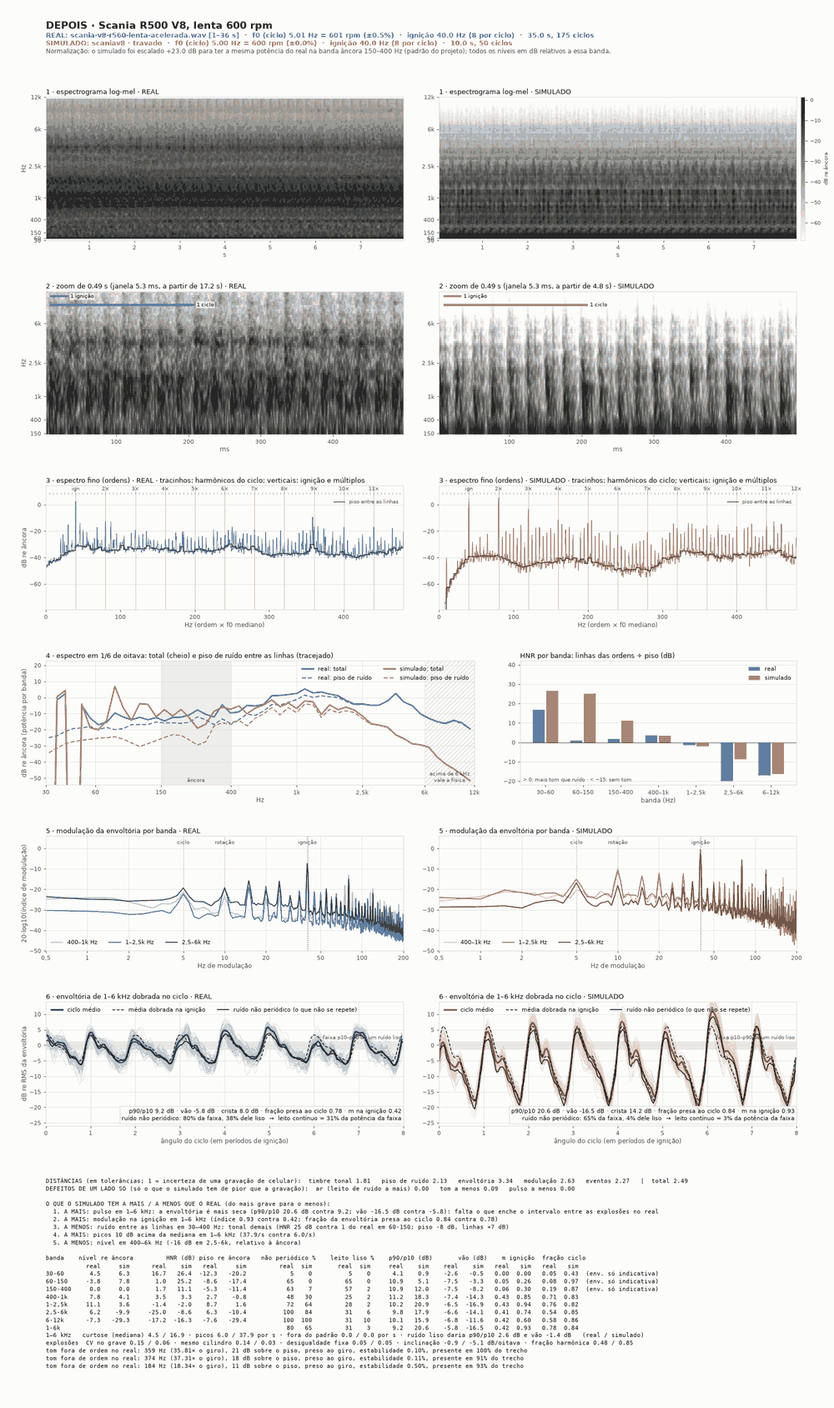
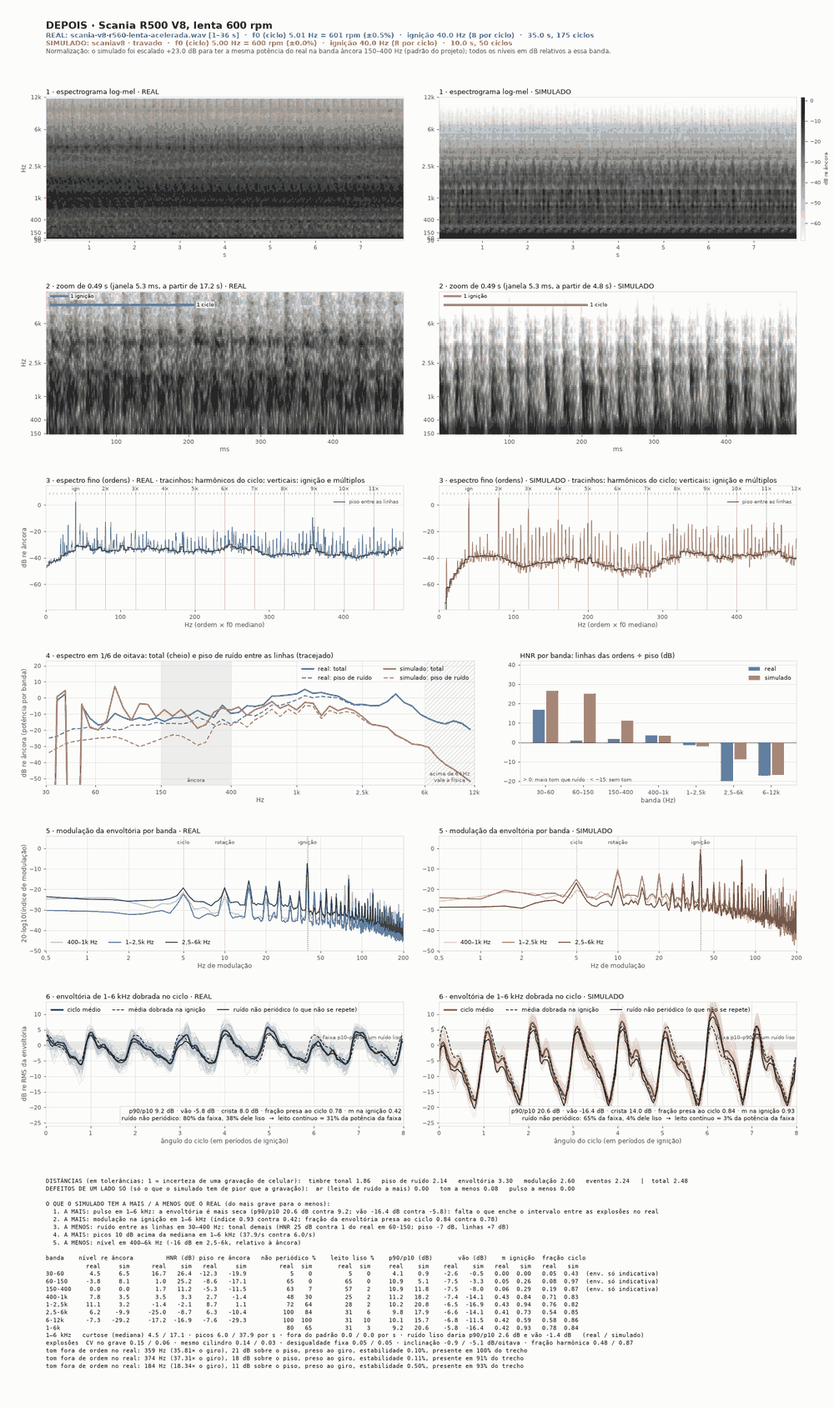
Diesel, 5ª passada (médios): documentação, painéis e a medida refeita com o câmbio novo
- TECNICO.md: subseção "Quinta passada (médios acelerando)": diagnóstico por fonte no
  microfone padrão, o corpo da batida, antes × depois × gravação nas três condições de
  aceleração (40% de pedal, pé no fundo no padrão e trocando cedo), o alto do giro,
  a tabela de volta atrás, o que ficou de fora e os portões
- REVISAO-DE-SOM.md: o que a passada ensinou, no caso do Diesel
- docs/ouvido/diesel/medios-*.png: seis painéis reduzidos
- tools/diesel-medios.json: casos `eco100` (caminhões trocando cedo, a rotação das
  gravações de carga); a gravação de bordo passa a casar com o ônibus trocando cedo

Changed region(s): [[0.248, 0.4929, 0.434, 0.5237], [0.806, 0.3697, 0.961, 0.4005], [0.527, 0.7393, 0.558, 0.7701]]

diff --git a/docs/TECNICO.md b/docs/TECNICO.md
@@ -1161,7 +1161,7 @@ O projeto está em [`DIESEL.md`](DIESEL.md); aqui fica o que foi feito, como e o
 
 ### Ferramentas e portões
 
-- `npm run teste:diesel` (`tools/diesel-valida.ts`): lenta, governadores, pressões (tabela 2.5), bandas por família (Apêndice A, tabela 4.4), fumaça, freio-motor, potência, veículo e NaN, em paralelo; sai ≠ 0 em falha nova; os desvios conhecidos (abaixo) aparecem como "desvio". Leva ~20 min (1190 s medidos em 18/11/2026; é de longe o teste mais demorado da suíte, e o grupo `nan` roda num processo só). `npm run troca:diesel` (`tools/troca.ts diesel`): a troca de configuração com o motor funcionando (diâmetro, ponteira, abafador e comprimento do escape na lenta, em pé parcial e no gerador com carga; ver [Troca de configuração com o motor funcionando](#troca-de-configuração-com-o-motor-funcionando)) e a troca de preset com o motor ligado na ordem de mensagens da página, com volta à lenta (`tools/diesel-troca.ts`, que o `teste:diesel` também roda). `npm run lenta:diesel`: 16 presets × 20 °C e −5 °C, partida de verdade, aceleradas aos 8 s e 13 s (notch 4 na locomotiva, degrau de 50% no gerador), zero apagamentos, rotação final ±3% do alvo do governador (±8% nos mecânicos com a água fria). `npm run governador:diesel` (rodado sozinho sai com código 1: duas das medidas dele só contam como "desvio" dentro do `teste:diesel`, que tem a lista `DESVIOS`). `tools/diesel-bandas.ts` é a porta de `analyze2.py` (conferida nas gravações: Hilux 1GD, Cat C15 e EMD 710 dão os números do Apêndice A). `tools/diesel-render.ts <preset> <cenário> <pasta> [ouvinte] [--resumo]`, `tools/diesel-medir.ts`. `npm run navegador:diesel` serve o `dist/` em `/data/engine/` e testa a página no Chromium e no Firefox (`… dist firefox`).
+- `npm run teste:diesel` (`tools/diesel-valida.ts`): lenta, governadores, pressões (tabela 2.5), bandas por família (Apêndice A, tabela 4.4), fumaça, freio-motor, potência, veículo e NaN, em paralelo; sai ≠ 0 em falha nova; os desvios conhecidos (abaixo) aparecem como "desvio". Leva ~20 min (1190 s medidos em 18/11/2026; é de longe o teste mais demorado da suíte, e o grupo `nan` roda num processo só). `npm run troca:diesel` (`tools/troca.ts diesel`): a troca de configuração com o motor funcionando (diâmetro, ponteira, abafador e comprimento do escape na lenta, em pé parcial e no gerador com carga; ver [Troca de configuração com o motor funcionando](#troca-de-configuração-com-o-motor-funcionando)) e a troca de preset com o motor ligado na ordem de mensagens da página, com volta à lenta (`tools/diesel-troca.ts`, que o `teste:diesel` também roda). `npm run lenta:diesel`: 16 presets × 20 °C e −5 °C, partida de verdade, aceleradas aos 8 s e 13 s (notch 4 na locomotiva, degrau de 50% no gerador), zero apagamentos, rotação final ±3% do alvo do governador (±8% nos mecânicos com a água fria). `npm run governador:diesel` (rodado sozinho sai com código 1: duas das medidas dele só contam como "desvio" dentro do `teste:diesel`, que tem a lista `DESVIOS`). `tools/diesel-bandas.ts` é a porta de `analyze2.py` (conferida nas gravações: Hilux 1GD, Cat C15 e EMD 710 dão os números do Apêndice A). `tools/diesel-render.ts <preset> <cenário> <pasta> [ouvinte] [--resumo]`, `tools/diesel-medir.ts`. `tools/diesel-medios.py` (5ª passada) mede os médios no padrão da página, na lenta e em arrancadas com o câmbio do preset, contra as gravações casadas. `npm run navegador:diesel` serve o `dist/` em `/data/engine/` e testa a página no Chromium e no Firefox (`… dist firefox`).
 
 ### Segunda passada (som, combustão e câmbio)
 
@@ -1500,7 +1500,9 @@ da passada, a lenta: 2,2–6,0). O que passa de 2,2 vem das distâncias simétri
   11 dB (são linhas) e os totais da régua mudam de −0,25 a +0,1; a de 1–2,5 kHz não sobe (relativa, cai 1 a 2,5 dB, porque a de
   150–400 sobe junto): com tubo de 5" a parede ressoa em 475 Hz e a massa corta em 1,3 kHz. É um caminho para os médios
   de 300 a 1000 Hz em carga, com valores 24 a 30 dB acima dos do Ronco; ligá-lo muda o nível em carga e pede refazer o
-  acerto da `mecanica` e a validação. O que falta de 1 a 2,5 kHz na cabine não vem dele.
+  acerto da `mecanica` e a validação. O que falta de 1 a 2,5 kHz na cabine não vem dele. *(Retomado na [quinta
+  passada](#quinta-passada-médios-acelerando): no microfone padrão a carcaça alisa o pulso e ficou desligada; os médios
+  subiram pelo corpo da batida.)*
 - **O que o Diesel não herda do motor-base**: a `batida` periódica (o Diesel tem a dele, pela queima); o `jato: 'sonico'`
   (o jato do Diesel já segue a velocidade média na boca e a boca é um campo à parte: com o tubo em 1,5" o jato muda o
   nível ponderado A em 0,0 a 0,3 dB); e a bomba de ar secundário não toca no Diesel (`hasCat = false` em `tune()`:
@@ -1547,6 +1549,179 @@ da passada, a lenta: 2,2–6,0). O que passa de 2,2 vem das distâncias simétri
   foi conferida em 10 sementes: não apaga em nenhuma (mínimo de 504 a 558 rpm; antes da passada, de 450 a 563). Com a
   dispersão do atraso de ignição a frio reduzida (uma versão intermediária desta passada) apagava em 1 de 10, e por
   isso a dispersão a frio voltou ao valor de antes.
+
+### Quinta passada (médios acelerando)
+
+Veredito do dono sobre a 4ª passada (23/11/2026): "ficou muito bom. O Diesel tá excelente! Agora sim é motor a diesel mesmo. Senti um pouco de falta nos médios ainda no diesel". Onde: "tanto acelerando quanto na lenta". E como ouve: "Eu ouço no padrão. Não mexo". O som da 4ª passada é a referência (nada nele pode piorar: o ritmo da batida, o turbo discreto, a ausência de ar), e esta passada é um retoque: pôr de 400 Hz a 2,5 kHz conteúdo preso ao giro, nunca ruído largo, no máximo até o nível das gravações, sem alisar o pulso.
+
+**A condição de medida é o padrão da página**, que é como o dono ouve: portador "Veículo", microfone `ext` ("Câmera atrás"), equalização zerada, os valores do preset, o câmbio automático no modo do preset. Ferramenta nova, `tools/diesel-medios.py`, com os casos em `tools/diesel-medios.json`: sete presets (Scania R500 V8, Volvo FH D13, Cat C15, ônibus ISL9, Hilux 2.8, Ram 6.7, F-250 7.3) na lenta (giro travado na rotação da gravação casada) e em arrancadas como quem dirige faz (lenta, engata, pisa 40% ou 100%, e o câmbio troca sozinho; `tools/diesel-ouvido-render.ts --arrancada p`). Da arrancada mede-se a marcha mais longa com o combustível no comando, nos últimos 8 s dela, com o giro subindo; o render grava no `.json` o ângulo do virabrequim no fim de cada bloco, e a análise síncrona (linhas, HNR) usa essa fase em vez de rastrear a rotação. São três condições de aceleração, e cada número abaixo diz de qual é:
+
+- **40% de pedal** (`arr40`): o câmbio sobe cedo (caminhões de 970 a 1510 rpm, picapes de 1250 a 2100).
+- **Pé no fundo no padrão** (`arr100`): desde o commit `3098531` o câmbio leva o giro até perto da faixa vermelha, e é assim que o dono ouve: Scania em 9ª de 1696 a 1996 rpm, Volvo 1559–1892, Cat 1575–1829, ônibus 1767–2130, Hilux em 4ª de 2899 a 3966, Ram 2329–2587, F-250 2079–2973.
+- **Pé no fundo trocando cedo** (`eco100`, só os caminhões, com `driveMode: 'eco'`): 1233 a 1684 rpm, a rotação das gravações de carga do acervo. É a condição que se compara com elas.
+
+Por caso saem as bandas relativas a 150–400 Hz **e ao total** (30 Hz a 12 kHz), o HNR por banda, o p90/p10 da envoltória, os defeitos de um lado só do kit, o nível ponderado A e, com `--orcamento`, de que fonte vem cada banda (mesma semente, um grupo de fontes desligado por vez; só fontes somadas na saída, porque no giro livre desligar uma fonte que entra na rede de tubos muda a trajetória do motor). `--tabela ANTES DEPOIS` monta o antes × depois × gravação e `--antes` renderiza com os valores de antes da passada. Saídas em `referencias/_sim/diesel/medios/` (`antes/`, `depois/`, uma pasta por experimento; `antes-cambio-antigo/` e `depois-cambio-antigo/` são as mesmas medidas com o câmbio de antes do `3098531`).
+
+**As gravações.** De fora só há lenta casada (Scania R560, Volvo FH500, Cat C15 em dois pontos do caminhão, ônibus urbano, Hilux 1KD, Cummins 6.7 em duas distâncias, Power Stroke 6.0). Caminhão puxando carga gravado de fora não existe no acervo: o que há é aceleração em ponto morto de perto (Scania R560 segurado a 1820 rpm), mixagem de bordo (ERF com Cummins de 14 L, a 1450 rpm) e cabine (Cat C15, Scania R620: casos `int` do `tools/diesel-ouvido.json`, de giro travado). Valem como faixa, e estão marcadas assim nas tabelas.
+
+**Diagnóstico** (o som de antes; `referencias/_sim/diesel/medios/antes/`):
+
+1. *De onde vem cada banda no `ext`.* Fração da potência da banda (dB relativos à banda inteira; 0 = toda ela):
+
+   | Condição | 150–400 Hz | 400–1000 Hz | 1–2,5 kHz | ponderado A |
+   |---|---|---|---|---|
+   | lenta, caminhões e ônibus | batida −0,7 a −4,2; escape −1,6 a −7,8 | batida −0,2 a −0,7; escape −19 a −26 | batida −0,8 a −2,3; impactos −4,4 a −7,3 | batida 67–83%; escape 2–10% |
+   | lenta, picapes | escape −0,4 a −2,9; batida −5,6 a −8,6 | batida −0,2 a −1,1 | batida −1,1 a −2,9; impactos −3,0 a −7,1 | batida 38–61%; escape 20–43% |
+   | 40% de pedal, caminhões | escape −0,3 a −2,6 | batida −0,2 a −0,8; escape −9 a −13 | batida −0,2 a −1,1 | batida 56–83%; escape 13–33% |
+   | 40% de pedal, picapes | escape | batida −1,4 a −2,7; escape −4,2 a −6,4 | batida −0,2 a −0,8 | escape 72–90%; batida 9–27% |
+   | pé no fundo trocando cedo, caminhões | escape | **escape −0,8 a −3,5**; batida −2,9 a −8,5 | batida 0 a −1,0 | escape 61–93%; batida 7–39% |
+   | pé no fundo no padrão, caminhões | escape | **escape −0,2 a −2,1**; batida −4,1 a −14,7 | batida −0,5 a −1,2; escape −14 a −19 | escape 83–96%; batida 4–16% |
+   | pé no fundo no padrão, picapes | escape | **escape 0 a −0,2**; batida −19 a −21 | batida −1,2 a −6,0; escape −1,3 a −6,7 | escape 95–100%; batida 1–3% |
+
+   Os médios do Diesel são a estrutura do motor (a batida) em tudo, menos em 400–1000 Hz com o pé no fundo, que são as linhas do escape (na Hilux a 3000–4000 rpm o escape chega também a 1–2,5 kHz). O turbo não passa de 0,9% do nível ponderado A (o assobio das palhetas do Cummins na lenta) nem a admissão de 1,3% (Hilux com o pé no fundo).
+
+2. *Na lenta, a âncora de 150–400 Hz engana nos caminhões.* No Scania e no Volvo essa banda também é a batida (−1,7 e −0,7 dB da banda; o escape, −5,5 e −7,8), e no Cat e no ônibus é meio a meio (escape −1,6 e −3,7; batida −3,8 e −4,2): medir os médios contra ela é, em boa parte, medir a estrutura contra ela mesma. Foi assim que o Cat C15 saiu "casado" (400–1000 Hz a 0,0 dB contra −0,3 da gravação) com tudo o que há acima de 150 Hz 4 dB baixo em relação ao grave do escape. Contra o total (simulado − gravação, dB):
+
+   | Lenta | 30–60 | 60–150 | 150–400 | 400–1000 | 1–2,5 k | 2,5–6 k |
+   |---|---|---|---|---|---|---|
+   | Scania V8 (gravação de perto) | +5,0 | +14,8 | +2,0 | −5,0 | −7,8 | −14,2 |
+   | Volvo FH D13 | +3,3 | +2,3 | +1,6 | −3,0 | −2,9 | −4,1 |
+   | Cat C15 (a ~2 m) | +9,9 | −0,4 | −4,1 | −3,8 | −4,2 | −2,8 |
+   | Ônibus ISL9 | −1,9 | +9,9 | −1,2 | −5,1 | +2,4 | −1,8 |
+   | Hilux 2.8 | −0,1 | +1,3 | −11,7 | −4,9 | −2,7 | −2,8 |
+   | Ram 6.7 | +2,2 | +3,0 | −16,6 | −2,1 | −6,5 | −11,0 |
+   | F-250 7.3 *(faixa)* | −5,3 | +9,1 | −12,9 | −8,5 | −10,8 | −15,4 |
+
+   Os médios ficam 3 a 5 dB abaixo das gravações em quase todos, com o grave do escape (60–150 Hz) sobrando onde a 4ª passada já tinha apontado. Como a lenta é normalizada pelo valor eficaz (`mkIdle`, na calibração), baixar o grave ou subir os médios dá no mesmo para quem ouve: o que muda é a proporção. Nas picapes há, além disso, um buraco de 12 a 17 dB em 150–400 Hz (ver "o que ficou de fora"): por isso, pela âncora de 150–400 Hz, os médios delas aparecem *acima* das gravações.
+
+3. *Acelerando.* Relativo a 150–400 Hz, em 400–1000 Hz / 1–2,5 kHz, os caminhões tinham −2,4 a −6,8 / −3,1 a −8,9 dB com 40% de pedal, −7,9 a −14,3 / −10,8 a −22,3 com o pé no fundo trocando cedo e −10,7 a −17,6 / −17,0 a −23,9 com o pé no fundo no padrão; as picapes, −13,3 a −17,2 / −14,6 a −19,7 com 40% e −5,1 a −11,1 / −16,4 a −28,1 com o pé no fundo. As gravações de fora com o motor trabalhando têm de −4,5 a +6 e de −7 a +7 dB (ERF de bordo, a 1450 rpm: −3,1 e −7,0), e as de cabine em carga, pelo ouvinte `int`, ficam 5 a 10 dB acima do simulado (Cat C15: −10,7 / −16,8 contra −17,2 / −22,0). Da lenta para a carga a estrutura cresce o que a física dela manda (Cat C15, só a estrutura, a 1450 rpm: +4,2 dB em 400–1000 Hz e +6,9 dB em 1–2,5 kHz de 15% a 100% do combustível, +5,6 dB(A); com a rotação, cerca de 31 dB por década), e o escape de 150–400 Hz cresce 13,5 dB só com a carga e mais 3 a 9 dB do giro de troca cedo ao alto do giro (Scania −24,5 → −16,8 dBFS, Volvo −27,7 → −18,7, ônibus −24,0 → −15,3, Cat −22,4 → −19,7). Não há fonte da estrutura que cresça mais com a carga do que com a lenta: a saia do pistão quatro vezes mais forte sobe 2,4 a 3,6 dB na lenta do Cat e 0,5 a 2,7 dB com o pé no fundo.
+
+4. *As pistas, medidas no microfone padrão* (Scania e Cat, com o câmbio de antes, trocando cedo; antes → com a mudança):
+
+   | Hipótese | Medida | Veredito |
+   |---|---|---|
+   | Carcaça do escape, +18 dB | pé no fundo: 400–1000 Hz +5,5 e +5,4 dB, em linhas (HNR 8,3 → 12,1 e 10,2 → 13,3); 1–2,5 kHz +0,3 e +0,2 dB; nível +2,9 e +2,3 dB(A), pico 0,32 → 0,42. Mas o p90/p10 de 400–1000 Hz cai 2,8 dB no Cat (as chaminés de 3,5 m atrasam a boca 7 ms e a carcaça toca no intervalo entre dois pulsos) e, na lenta, 1,7 e 3,6 dB, por +0,1 e +0,2 dB de nível. Nas picapes, o mesmo valor soma 11 a 19 dB (Hilux com o pé no fundo: +16 dB(A)) | Fora: alisa o pulso de 400–1000 Hz, não chega a 1–2,5 kHz e muda o volume. Continua desligada nos presets, com o controle no painel |
+   | Carcaça +12 dB junto com a estrutura | +0,4 a +1,5 dB em 400–1000 Hz com o pé no fundo; p90/p10 de 400–1000 Hz −1,2 (Volvo) e −4,2 dB (Cat) | Fora |
+   | Ressonância do bloco 1,6× | +0,2 a +2,0 dB; p90/p10 de 1–6 kHz −1,3 a −1,8 dB nos caminhões (Scania na lenta 20,3 → 18,5; Cat 20,6 → 18,9) e −2,7 dB na Hilux com 40% de pedal | Fora: enche o intervalo, é o lado errado |
+   | Saia do pistão ×4 | lenta +2,4 / +3,6 dB (Cat), pé no fundo +0,5 / +2,7 dB | Fora: sobe mais a lenta que a carga |
+   | `mecanica` +4 dB | tudo de 400 Hz a 6 kHz +4 dB na lenta e com 40% de pedal (+2,7 a +3,9 dB(A) na lenta); pé no fundo 0,0 a +1,8 dB em 400–1000 Hz e +3,9 dB em 1–2,5 kHz | Fora: sobe o agudo junto, e o dono sente falta de médio, não de agudo |
+   | Balanço (o grave dominando) | é o que os números do item 2 mostram na lenta; em carga, o escape é 61–100% do nível ponderado A | Vale: a correção é de proporção entre a estrutura e o escape, feita pelo lado da estrutura e só na faixa dos médios |
+
+**O que mudou: o corpo da batida** (campo `corpo`, em dB; `CORPO` em `src/engines/diesel/constantes.ts:117`, `pesarCorpo()` em `src/engines/diesel/dsp.ts:492`, a soma dos modos em `mecanica()`, `dsp.ts:852`). Os modos da estrutura não irradiam todos por igual: de 400 Hz a 2,5 kHz quem irradia são as chapas grandes e finas presas ao bloco (o cárter, a tampa da distribuição, as tampas de válvulas, a carcaça do volante), que respondem às mesmas pancadas. Os perfis das fontes (`EST_COMB` e os outros) são os de um bloco nu. `corpo` é quanto essas chapas somam à irradiação de cada modo: um peso por modo na saída do banco, em forma de sino na escala logarítmica, centrado em 950 Hz num cilindro de 100 mm (desce com a raiz do diâmetro: ~830 Hz no caminhão) e com uma oitava de desvio-padrão. Medido com +4 dB nos sete presets, com 40% de pedal: +2,3 a +3,4 dB em 400–1000 Hz, +2,6 a +3,2 dB em 1–2,5 kHz, 0,0 a +0,5 dB em 150–400 Hz e, em 2,5–6 kHz, +0,5 a +1,0 dB nos caminhões e +1,2 a +1,6 dB nas picapes (o sino delas fica mais alto). É a saída da estrutura, então vale para a queima e para os impactos, e cada explosão continua sendo uma pancada: não entra fonte nova, não entra ruído, e o instante de cada evento é o de antes. A referência dos impactos (`refKnock`) é medida na soma crua dos modos, antes dos pesos, e não muda (Scania 0,2503, Cat 0,4369: iguais). Sem o campo (ou com 0 dB) não há pesos e a soma sai como saía: render idêntico, amostra a amostra, ao de antes (conferido com `cmp` na lenta do Scania e nas arrancadas do Cat e da Hilux). A calibração inclui o corpo, como inclui a `mecanica`: o reforço da lenta (`mkIdle`) desce 0,0 a 1,0 dB (Volvo 3,4 → 2,4 dB; Scania 5,0 → 4,4; ônibus 1,0 → 0,5; Cat 3,4 → 3,2; picapes, 0,0 a 0,1) e o ganho de plena carga, 0,0 a 0,2 dB.
+
+Por preset, o valor é o que deixa 400–1000 Hz e 1–2,5 kHz da lenta no máximo no nível da gravação casada, relativo ao total: +4 dB no Scania e no Volvo, +3 dB no Cat, no ônibus e nas três picapes. O `mecanica` de todos ficou onde estava.
+
+**Antes × depois × gravação**, no padrão da página (microfone `ext`, som de ambiente desligado na medida; em cada célula antes → depois, e entre parênteses a gravação; "faixa" = gravação de outro motor, outra posição ou outra carga). Painéis em `docs/ouvido/diesel/medios-*.png`; tudo em `referencias/_sim/diesel/medios/antes/` e `depois/`.
+
+| Preset | Condição | 400–1000 Hz re 150–400 (dB) | 1–2,5 kHz re 150–400 | 400–1000 Hz re total | 1–2,5 kHz re total | HNR 400–1000 Hz (dB) | HNR 1–2,5 kHz |
+|---|---|---|---|---|---|---|---|
+| Scania R500 V8 | lenta, 600 rpm | +0,8 → +3,5 (+7,8) | +1,3 → +3,2 (+11,1) | −11,5 → −8,6 (−6,6) | −11,1 → −9,0 (−3,3) | +3,5 → +3,3 (+3,5) | −2,1 → −2,1 (−1,4) |
+| Scania R500 V8 | 40% de pedal, 7ª, 1163–1368 rpm | −6,2 → −2,9 | −8,9 → −6,1 | −14,9 → −11,8 | −17,6 → −15,0 | +6,8 → +6,4 | −0,6 → −0,4 |
+| Scania R500 V8 | pé no fundo, 9ª, 1696–1996 rpm *(faixa)* | −14,9 → −14,1 (+6,2) | −22,5 → −19,7 (+7,4) | −15,7 → −14,9 (−5,4) | −23,4 → −20,5 (−4,2) | +11,6 → +9,5 (−1,3) | +0,1 → +0,2 (−25,0) |
+| Scania R500 V8 | pé no fundo, trocando cedo (modo econômico), 10ª, 1290–1500 rpm | −12,6 → −11,0 | −17,4 → −14,7 | −17,0 → −15,5 | −21,8 → −19,1 | +8,3 → +6,4 | −1,7 → −1,7 |
+| Volvo FH D13 | lenta, 600 rpm | +0,4 → +2,6 (+5,0) | −0,3 → +1,3 (+4,1) | −8,2 → −6,0 (−5,2) | −8,9 → −7,4 (−6,0) | +3,7 → +3,4 (−4,7) | −2,9 → −2,8 (−10,3) |
+| Volvo FH D13 | 40% de pedal, 8ª, 1041–1171 rpm | −2,4 → +0,4 | −3,1 → −0,7 | −13,3 → −10,3 | −14,0 → −11,4 | +3,7 → +3,3 | −1,1 → −1,1 |
+| Volvo FH D13 | pé no fundo, 9ª, 1559–1892 rpm | −15,3 → −13,4 | −17,0 → −13,9 | −18,2 → −16,4 | −19,9 → −16,9 | +7,0 → +5,3 | +1,8 → +2,1 |
+| Volvo FH D13 | pé no fundo, trocando cedo (modo econômico), 10ª, 1233–1437 rpm | −7,9 → −6,4 | −10,8 → −7,8 | −15,0 → −13,7 | −18,0 → −15,0 | +9,6 → +6,7 | −0,8 → −0,6 |
+| Cat C15 | lenta, 702 rpm | −0,0 → +2,2 (−0,3) | −1,6 → −0,2 (−1,4) | −14,1 → −11,6 (−10,3) | −15,7 → −14,1 (−11,5) | +3,7 → +3,6 (−6,3) | −2,2 → −2,2 (−15,0) |
+| Cat C15 | lenta, 702 rpm (gravação: de frente) *(faixa)* | −0,0 → +2,2 (+4,2) | −1,6 → −0,2 (+4,3) | −14,1 → −11,6 (−6,3) | −15,7 → −14,1 (−6,1) | +3,7 → +3,6 (−5,0) | −2,2 → −2,2 (−13,0) |
+| Cat C15 | 40% de pedal, 6ª, 968–1088 rpm | −3,6 → −1,2 | −7,4 → −5,5 | −18,5 → −15,9 | −22,2 → −20,2 | +5,7 → +5,5 | −3,4 → −3,3 |
+| Cat C15 | pé no fundo, 7ª, 1575–1829 rpm | −17,6 → −16,8 | −23,9 → −21,8 | −20,9 → −20,2 | −27,3 → −25,2 | +8,4 → +7,2 | −0,4 → −0,2 |
+| Cat C15 | pé no fundo, trocando cedo (modo econômico), 7ª, 1421–1684 rpm | −14,3 → −13,7 | −22,3 → −20,1 | −18,8 → −18,2 | −26,7 → −24,6 | +10,0 → +8,5 | −1,0 → −0,8 |
+| Ônibus ISL9 | lenta, 618 rpm | +1,0 → +3,1 (+5,0) | +1,2 → +2,9 (−2,4) | −9,4 → −7,6 (−4,3) | −9,2 → −7,7 (−11,6) | +5,1 → +5,0 (+2,5) | −1,3 → −1,0 (−2,8) |
+| Ônibus ISL9 | 40% de pedal, 2ª, 1119–1507 rpm | −6,8 → −4,5 | −8,5 → −6,3 | −14,7 → −12,5 | −16,4 → −14,3 | +8,2 → +8,0 | +1,0 → +1,3 |
+| Ônibus ISL9 | pé no fundo, 4ª, 1767–2130 rpm | −10,7 → −10,5 | −22,8 → −20,7 | −12,5 → −12,3 | −24,6 → −22,5 | +12,9 → +11,4 | +0,0 → +0,1 |
+| Ônibus ISL9 | pé no fundo, trocando cedo (modo econômico), 4ª, 1264–1682 rpm *(faixa)* | −12,9 → −11,2 (−3,1) | −15,4 → −13,2 (−7,0) | −17,5 → −15,9 (−13,3) | −20,1 → −17,9 (−17,2) | +7,6 → +6,5 (+1,9) | +0,2 → +0,4 (−3,6) |
+| Hilux 2.8 | lenta, 769 rpm | +0,6 → +2,9 (−6,2) | +1,2 → +3,4 (−7,7) | −18,8 → −16,3 (−13,9) | −18,2 → −15,8 (−15,4) | +5,1 → +5,0 (−0,6) | −0,5 → −0,4 (−4,3) |
+| Hilux 2.8 | 40% de pedal, 4ª, 1700–2102 rpm | −13,3 → −11,6 | −14,6 → −12,2 | −19,8 → −18,2 | −21,1 → −18,7 | +7,9 → +7,0 | +0,7 → +0,8 |
+| Hilux 2.8 | pé no fundo, 4ª, 2899–3966 rpm | −5,1 → −5,1 | −16,4 → −15,6 | −8,2 → −8,2 | −19,4 → −18,7 | +18,7 → +17,8 | +7,4 → +5,9 |
+| Ram 6.7 Cummins | lenta, 700 rpm | −3,4 → −1,0 (−17,9) | −3,9 → −1,9 (−14,1) | −23,4 → −20,8 (−21,3) | −24,0 → −21,7 (−17,5) | +4,8 → +4,7 (−1,3) | −2,0 → −1,9 (−6,9) |
+| Ram 6.7 Cummins | lenta, 700 rpm (gravação: mais perto) | −3,4 → −1,0 (−9,8) | −3,9 → −1,9 (−9,3) | −23,4 → −20,8 (−12,1) | −24,0 → −21,7 (−11,7) | +4,8 → +4,7 (−1,6) | −2,0 → −1,9 (−7,3) |
+| Ram 6.7 Cummins | 40% de pedal, 4ª, 1446–1932 rpm | −17,2 → −15,0 | −18,9 → −16,5 | −26,6 → −24,4 | −28,3 → −25,9 | +7,9 → +7,0 | −0,4 → −0,4 |
+| Ram 6.7 Cummins | pé no fundo, 6ª, 2329–2587 rpm | −8,7 → −8,6 | −23,5 → −21,6 | −12,2 → −12,2 | −27,1 → −25,2 | +16,2 → +15,6 | +2,2 → +1,9 |
+| F-250 7.3 Power Stroke | lenta, 655 rpm *(faixa)* | −0,0 → +2,1 (−4,4) | +1,8 → +3,6 (−0,2) | −23,1 → −20,7 (−14,6) | −21,3 → −19,3 (−10,4) | +4,7 → +4,4 (+4,4) | −0,7 → −0,8 (+3,9) |
+| F-250 7.3 Power Stroke | 40% de pedal, 3ª, 1251–1522 rpm | −16,9 → −15,0 | −19,7 → −17,4 | −27,5 → −25,6 | −30,4 → −28,1 | +7,6 → +7,0 | −0,5 → −0,4 |
+| F-250 7.3 Power Stroke | pé no fundo, 3ª, 2079–2973 rpm | −11,1 → −11,1 | −28,1 → −26,4 | −11,5 → −11,5 | −28,5 → −26,8 | +17,0 → +16,6 | +1,1 → +1,0 |
+
+| Preset | Condição | p90/p10 de 1–6 kHz (dB) | p90/p10 de 400–1000 Hz | p90/p10 de 1–2,5 kHz | leito de 1–6 kHz | ar | tom a menos | pulso a menos | nível (dB(A) re fundo de escala) | pico |
+|---|---|---|---|---|---|---|---|---|---|---|
+| Scania R500 V8 | lenta, 600 rpm | 20,3 → 20,6 (9,2) | 17,4 → 18,2 (11,2) | 20,6 → 20,8 (10,2) | 3% → 3% (31%) | 0,00 → 0,00 | 0,08 → 0,08 | 0,00 → 0,00 | −49,7 → −47,6 | 0,05 → 0,07 |
+| Scania R500 V8 | 40% de pedal, 7ª, 1163–1368 rpm | 15,5 → 15,7 | 14,9 → 16,0 | 15,9 → 16,1 | 11% → 11% | — → — | — → — | — → — | −39,7 → −37,3 | 0,13 → 0,17 |
+| Scania R500 V8 | pé no fundo, 9ª, 1696–1996 rpm | 14,6 → 15,2 (5,9) | 12,8 → 12,1 (10,7) | 15,2 → 15,8 (8,6) | 15% → 13% (76%) | 0,00 → 0,00 | 0,00 → 0,00 | 0,00 → 0,00 | −24,1 → −23,9 | 0,51 → 0,51 |
+| Scania R500 V8 | pé no fundo, trocando cedo (modo econômico), 10ª, 1290–1500 rpm | 14,6 → 15,0 | 13,0 → 12,3 | 15,0 → 15,3 | 13% → 12% | — → — | — → — | — → — | −32,0 → −31,3 | 0,32 → 0,32 |
+| Volvo FH D13 | lenta, 600 rpm | 18,5 → 18,7 (11,7) | 18,9 → 19,3 (11,6) | 18,6 → 18,8 (11,7) | 5% → 5% (81%) | 0,00 → 0,00 | 0,00 → 0,00 | 0,00 → 0,00 | −49,2 → −47,4 | 0,05 → 0,06 |
+| Volvo FH D13 | 40% de pedal, 8ª, 1041–1171 rpm | 18,9 → 19,3 | 15,2 → 16,4 | 19,3 → 19,7 | 4% → 4% | — → — | — → — | — → — | −39,2 → −36,5 | 0,18 → 0,24 |
+| Volvo FH D13 | pé no fundo, 9ª, 1559–1892 rpm | 15,5 → 15,9 | 15,2 → 14,7 | 15,8 → 16,2 | 12% → 11% | — → — | — → — | — → — | −25,7 → −25,1 | 0,52 → 0,56 |
+| Volvo FH D13 | pé no fundo, trocando cedo (modo econômico), 10ª, 1233–1437 rpm | 16,6 → 17,0 | 12,9 → 12,9 | 16,9 → 17,2 | 10% → 9% | — → — | — → — | — → — | −32,0 → −30,6 | 0,29 → 0,33 |
+| Cat C15 | lenta, 702 rpm | 20,6 → 20,5 (10,4) | 19,1 → 19,7 (11,5) | 20,5 → 20,4 (10,8) | 3% → 3% (84%) | 0,00 → 0,00 | 0,00 → 0,00 | 0,00 → 0,00 | −53,2 → −51,5 | 0,03 → 0,04 |
+| Cat C15 | 40% de pedal, 6ª, 968–1088 rpm | 19,4 → 19,5 | 13,4 → 15,1 | 19,9 → 20,0 | 4% → 4% | — → — | — → — | — → — | −45,3 → −43,6 | 0,14 → 0,17 |
+| Cat C15 | pé no fundo, 7ª, 1575–1829 rpm | 14,6 → 15,2 | 13,6 → 12,9 | 15,4 → 15,9 | 13% → 12% | — → — | — → — | — → — | −27,8 → −27,6 | 0,55 → 0,55 |
+| Cat C15 | pé no fundo, trocando cedo (modo econômico), 7ª, 1421–1684 rpm | 15,1 → 15,5 | 14,4 → 14,0 | 15,8 → 16,2 | 12% → 11% | — → — | — → — | — → — | −30,5 → −30,3 | 0,36 → 0,37 |
+| Ônibus ISL9 | lenta, 618 rpm | 17,1 → 17,1 (5,4) | 18,5 → 18,8 (7,7) | 17,1 → 17,1 (7,9) | 5% → 5% (56%) | 0,00 → 0,00 | 0,15 → 0,15 | 0,00 → 0,00 | −50,2 → −48,8 | 0,05 → 0,06 |
+| Ônibus ISL9 | 40% de pedal, 2ª, 1119–1507 rpm | 16,4 → 16,6 | 15,3 → 15,8 | 17,5 → 17,6 | 9% → 8% | — → — | — → — | — → — | −38,3 → −36,8 | 0,17 → 0,20 |
+| Ônibus ISL9 | pé no fundo, 4ª, 1767–2130 rpm | 13,4 → 14,0 | 17,1 → 16,4 | 14,3 → 14,9 | 17% → 15% | — → — | — → — | — → — | −22,2 → −22,3 | 0,61 → 0,60 |
+| Ônibus ISL9 | pé no fundo, trocando cedo (modo econômico), 4ª, 1264–1682 rpm | 16,0 → 16,3 (6,0) | 13,1 → 13,7 (10,1) | 16,9 → 17,2 (7,7) | 10% → 9% (61%) | 0,00 → 0,00 | 0,00 → 0,00 | 0,00 → 0,00 | −31,0 → −30,3 | 0,33 → 0,35 |
+| Hilux 2.8 | lenta, 769 rpm | 15,6 → 15,9 (8,2) | 18,0 → 18,2 (8,9) | 16,0 → 16,2 (8,7) | 7% → 7% (50%) | 0,00 → 0,00 | 0,00 → 0,00 | 0,00 → 0,00 | −60,9 → −59,0 | 0,02 → 0,02 |
+| Hilux 2.8 | 40% de pedal, 4ª, 1700–2102 rpm | 21,1 → 21,3 | 11,9 → 12,8 | 21,4 → 21,5 | 2% → 2% | — → — | — → — | — → — | −41,7 → −41,0 | 0,11 → 0,12 |
+| Hilux 2.8 | pé no fundo, 4ª, 2899–3966 rpm | 17,6 → 16,9 | 15,9 → 15,7 | 16,7 → 16,3 | 16% → 15% | — → — | — → — | — → — | −25,9 → −25,9 | 0,44 → 0,44 |
+| Ram 6.7 Cummins | lenta, 700 rpm | 15,7 → 16,6 (5,3) | 18,3 → 19,0 (8,4) | 18,3 → 18,5 (6,9) | 8% → 6% (85%) | 0,00 → 0,00 | 0,00 → 0,00 | 0,00 → 0,00 | −62,0 → −60,6 | 0,02 → 0,02 |
+| Ram 6.7 Cummins | 40% de pedal, 4ª, 1446–1932 rpm | 17,6 → 18,0 | 12,1 → 12,9 | 18,3 → 18,5 | 7% → 7% | — → — | — → — | — → — | −45,1 → −44,6 | 0,10 → 0,10 |
+| Ram 6.7 Cummins | pé no fundo, 6ª, 2329–2587 rpm | 14,1 → 14,5 | 21,4 → 20,6 | 14,4 → 14,9 | 17% → 16% | — → — | — → — | — → — | −30,0 → −30,0 | 0,31 → 0,31 |
+| F-250 7.3 Power Stroke | lenta, 655 rpm | 19,5 → 19,4 (8,0) | 16,3 → 16,7 (8,2) | 19,4 → 19,3 (9,1) | 5% → 5% (20%) | 0,00 → 0,00 | 0,54 → 0,55 | 0,00 → 0,00 | −61,4 → −60,0 | 0,02 → 0,02 |
+| F-250 7.3 Power Stroke | 40% de pedal, 3ª, 1251–1522 rpm | 14,1 → 14,3 | 12,4 → 12,8 | 14,5 → 14,7 | 17% → 17% | — → — | — → — | — → — | −45,9 → −45,5 | 0,09 → 0,09 |
+| F-250 7.3 Power Stroke | pé no fundo, 3ª, 2079–2973 rpm | 11,9 → 12,1 | 17,7 → 17,6 | 12,3 → 12,5 | 36% → 32% | — → — | — → — | — → — | −29,9 → −29,9 | 0,30 → 0,30 |
+
+Em resumo, depois − antes: na lenta, +1,9 a +2,8 dB em 400–1000 Hz e +1,5 a +2,4 dB em 1–2,5 kHz; com 40% de pedal, +1,6 a +3,3 e +2,0 a +2,8 dB; com o pé no fundo no padrão, 0,0 a +1,7 e +1,9 a +3,0 dB nos caminhões e 0,0 a +0,1 e +0,7 a +1,9 dB nas picapes; trocando cedo, +0,6 a +1,5 e +2,1 a +3,0 dB.
+
+O que não mudou, em nível absoluto: o grave do escape (30–150 Hz) fica igual em carga (0,0 a −0,2 dB) e desce 0,0 a 1,2 dB na lenta, pela normalização (Volvo −1,2 dB, Scania −0,8, ônibus −0,8, Cat −0,2, picapes −0,1); 150–400 Hz muda de −0,2 a +0,5 dB; 2,5–6 kHz muda de −0,3 a +1,0 dB nos caminhões e sobe 0,8 a 1,2 dB nas picapes; 6–12 kHz, de −0,8 a +0,4 dB. O nível ponderado A sobe 1,4 a 2,1 dB na lenta, 0,3 a 2,6 dB com 40% de pedal e 0,0 a 0,6 dB com o pé no fundo no padrão (0,2 a 1,4 trocando cedo). O turbo é o de antes: nos degraus de carga com o giro travado (`tools/diesel-ouvido.py`, casos `*-turbo`) o apito sai na mesma frequência e no mesmo nível (Cat C15 9422 Hz, 21 dB sobre o fundo, −35 dB relativos a 150–400 Hz de fora e −29 na cabine; Scania 9135 Hz, 22 dB, −33; ônibus 9328 Hz, 22 dB, −36; Ram 12 521 Hz, 21 dB, −39; Hilux 14 701 Hz, 20 dB, −35) e a banda larga sobe o total ponderado A em 0,01 dB, antes e depois; no alto do giro das arrancadas o tom também é o mesmo antes e depois (Scania a 1996 rpm: 10 980 Hz, 21,6 dB sobre o fundo, −40,1 dB relativos a 150–400 Hz). Na cabine (`int`, giro travado), contra as gravações casadas: Cat C15 em carga −17,2 / −22,0 → −15,0 / −19,6 (gravação −10,7 / −16,8); Scania em carga −14,1 / −18,7 → −10,9 / −15,5 (−4,1 / −12,9), com o "pulso a menos" de 1,13 para 0,95 e o total de 1,58 para 1,47; Hilux no cofre 2,0 / 3,5 → 4,0 / 5,4 (4,6 / 10,9).
+
+**O alto do giro** (pé no fundo no padrão, com o câmbio do `3098531`; achados, sem mexer no câmbio). Dos 1230–1680 rpm de quem troca cedo para os 1560–2130 de agora, o escape de 150–400 Hz dos caminhões cresce 2,7 a 9,0 dB, o nível ponderado A sobe 2,7 a 8,0 dB (Scania −31,3 → −23,9 dB(A); ônibus −30,3 → −22,3; Volvo −30,6 → −25,1; Cat −30,3 → −27,6) e o pico da saída vai de 0,32–0,37 para 0,51–0,61 do fundo de escala (ônibus em 4ª a 2130 rpm: 0,60), onde a saturação suave da saída (`tanh`) já comprime 1 dB. É do escape e da calibração de volume (a sonda de plena carga mede a 55% da rotação máxima), igual antes e depois desta passada (pico 0,51–0,61 → 0,51–0,60). Os médios ficam mais baixos em relação ao escape do que trocando cedo, e é ali que mais faltam: em 1–2,5 kHz, depois da passada, Scania −19,7 dB contra −14,7 trocando cedo, Volvo −13,9 contra −7,8, ônibus −20,7 contra −13,2, Cat −21,8 contra −20,1. O que **não** sobe demais: o apito do turbo no topo fica em 10,6–11,0 kHz nos caminhões, 7 a 22 dB sobre o fundo local e 40 a 42 dB abaixo de 150–400 Hz (trocando cedo, 38 a 40); nas picapes, 13,1–13,8 kHz e 38 a 67 dB abaixo; o agudo da mecânica (2,5–6 kHz) fica 30 a 41 dB abaixo de 150–400 Hz.
+
+**Volta atrás.** Um campo por preset; o painel mostra a posição de antes ao lado do valor do controle "Corpo da batida" (Motor): "+4 dB · antes 0 dB", e "0 dB · como era" quando o controle está nela. `ANTES_DOS_MEDIOS` (`src/engines/diesel/presets.ts:96`) guarda esses valores e `tools/diesel-ouvido-render.ts --antes` (ou `tools/diesel-medios.py --antes`) renderiza com eles. Para desfazer a passada inteira basta tirar o campo dos sete presets.
+
+| Preset | Campo | Antes (4ª passada) | Depois |
+|---|---|---|---|
+| Scania R500 V8 (`scaniav8`) | `corpo` | 0 dB (sem o campo) | +4 dB |
+| Volvo FH D13 (`volvod13`) | `corpo` | 0 dB | +4 dB |
+| Cat C15 (`catc15`) | `corpo` | 0 dB | +3 dB |
+| Ônibus ISL9 (`onibusisl`) | `corpo` | 0 dB | +3 dB |
+| Hilux 2.8 (`hilux28`) | `corpo` | 0 dB | +3 dB |
+| Ram 6.7 Cummins (`ram67`) | `corpo` | 0 dB | +3 dB |
+| F-250 7.3 Power Stroke (`psd73`) | `corpo` | 0 dB | +3 dB |
+
+Nenhum outro campo de preset e nenhuma constante mudaram. Os outros nove presets (Ranger, Duramax, 300D, TDI, F-1000, Detroit 6V92, gerador, EMD, GE) tocam como antes.
+
+**O que ficou de fora** (medido, não resolvido):
+
+- **400–1000 Hz com o pé no fundo é do escape, e ali a regra do HNR não se cumpre.** Em 1–2,5 kHz o HNR fica igual (±0,4 dB) em todos os casos menos um (a Hilux no alto do giro, abaixo). Em 400–1000 Hz cai 0,1 a 0,3 dB na lenta e 0,2 a 0,9 dB com 40% de pedal; com o pé no fundo a estrutura sobe essa banda só 0,0 a 1,7 dB, e o HNR dela cai 1,2 a 2,1 dB nos caminhões no padrão (Scania 11,6 → 9,5; Volvo 7,0 → 5,3; Cat 8,4 → 7,2; ônibus 12,9 → 11,4), 1,1 a 2,9 dB trocando cedo (Volvo 9,6 → 6,7) e 0,4 a 0,9 dB nas picapes (de 16,2–18,7 para 15,6–17,8), porque a batida (HNR de +4 a +6 dB nessa banda: metade da aspereza da queima é sorteada, e a mistura varia de um ciclo para o outro) ganha peso sobre as linhas do escape. Continua acima das gravações (−1 a +2 dB), o `ar` é 0,00 e o leito de 1–6 kHz não sobe (cai de 0 a 4 pontos), mas o pedido era HNR igual ou maior. O p90/p10 dessa mesma banda cai 0,5 a 0,7 dB nos caminhões com o pé no fundo e até 0,8 dB nas picapes (Ram 21,4 → 20,6), porque o pulso do escape e a pancada da queima caem em instantes diferentes do ciclo; o de 1–6 kHz sobe em 17 dos 18 casos de carga (+0,1 a +0,7 dB), e na lenta muda de −0,1 a +0,9 dB. O que poria linhas ali sem a estrutura é a carcaça do escape, que falhou no pulso (item 4).
+- **A Hilux no alto do giro é o caso que piora.** De 2900 a 3966 rpm com o pé no fundo o escape dela chega a 1–2,5 kHz (−1,3 dB da banda), e a batida, menos tonal e fora de fase com ele, baixa o HNR dessa banda de 7,4 para 5,9 dB e o p90/p10 de 1–6 kHz de 17,6 para 16,9 dB (o de 1–2,5 kHz, de 16,7 para 16,3), por +0,8 dB de nível. Com `corpo` em 0 dB a Hilux volta ao que era; na lenta e com 40% de pedal o ganho dela é de 1,7 a 2,4 dB.
+- **Com o pé no fundo a falta continua grande.** Trocando cedo, o ônibus foi de −12,9 / −15,4 para −11,2 / −13,2 dB contra −3,1 / −7,0 da gravação de bordo (fechou 1,7 e 2,2 dB de 9,8 e 8,4); o Cat C15, o mais escuro, de −14,3 / −22,3 para −13,7 / −20,1. No alto do giro falta mais (ver acima). O retoque inteiro (2 a 3 dB) é limitado pela lenta: o que sobe a estrutura em carga sobe igual na lenta, e na lenta já se chegou ao nível das gravações. Fechar a carga pede mexer na proporção entre o escape e a estrutura só em carga e em giro alto (o escape de 150–400 Hz cresce 34 dB da lenta à carga, medido na 4ª passada, e mais 3 a 9 dB no alto do giro; o abafador de caminhão do modelo quase não atenua abaixo de 900 Hz), e isso é o "rom rom" aprovado.
+- **Onde o depois passa da gravação.** Ônibus na lenta, 1–2,5 kHz: já estava 3,6 dB acima relativo a 150–400 Hz (2,4 relativo ao total) e foi a 5,3 (3,9); a gravação é de biblioteca, de um ônibus não identificado. Cat C15 na lenta, 400–1000 Hz relativo a 150–400 Hz: +2,2 dB contra −0,3 a ~2 m e +4,2 de frente, no mesmo vídeo (relativo ao total, −11,6 contra −10,3 e −6,3). Cat C15 na cabine com pouca carga (`int`, combustível suposto de 30%): 400–1000 Hz −8,5 → −5,9 contra −7,4. Ram na lenta, relativo ao total: 400–1000 Hz −20,8 contra −21,3.
+- **O buraco de 150–400 Hz na lenta das picapes** (relativo ao total: Hilux −11,7 dB, Ram −16,6, F-250 −12,9; a banda vem do escape, que cai 21 dB de 60–150 para 150–400 Hz, onde as gravações caem 0 a 5). Com ele a âncora de 150–400 Hz põe os médios das picapes acima das gravações (Hilux +0,6 / +1,2 contra −6,2 / −7,7 antes, +2,9 / +3,4 depois), e relativo ao total eles estavam abaixo (−4,9 / −2,7 → −2,4 / −0,4). As duas medidas têm defeito: uma depende do buraco, a outra do grave que o celular grava. É do escape da lenta (o abafador original tem um vale de 7 dB em 350 Hz), que esta passada não tocou.
+- **O grave da lenta continua sobrando** onde sobrava (60–150 Hz relativo ao total: Scania +14,8 dB, ônibus +9,9, F-250 +9,1), menos o que a normalização tirou (0,0 a 1,2 dB).
+- **Não há gravação de fora de caminhão ou picape puxando carga, nem de giro alto.** O antes × depois das arrancadas é medido; o alvo delas é faixa.
+- **Os outros presets das duas famílias** (Ranger, Duramax, 300D, TDI, F-1000, Detroit 6V92) não foram medidos no padrão e não receberam o corpo.
+
+**Portões e validação** (23/11/2026, com o câmbio do `3098531` mesclado e antes de os testes do Diesel virarem desvios com teto; saídas em `referencias/_sim/diesel/medios/portoes/`). Passam `typecheck`, `build`, `paridade:ronco -- --rapido` (idêntica ao legado), `troca:diesel` (16 trocas, 0 falhas), `teste:passagem` (29 montagens, 0 falhas; 8 alertas: níveis de outras famílias e, na locomotiva e no gerador, tempo de CPU com a máquina ocupada; a picape diesel passa a 82,1 dB(A), faixa 70–84), `teste:cena` (102 medidas, 0 falhas), `verificar:rapido` (15 de 15) e `MUDO=1 navegador:diesel` (35 conferências; passou em duas de três execuções: a que falhou rodou com a máquina a 80 de carga e parou numa exceção do roteiro, `window.__diesel` indefinido depois do passo do dinamômetro). O `teste:diesel`, rodado uma vez, sai com **7 falhas e 69 desvios** (em 22/11: 0 e 70). As 7 falhas são do câmbio novo e existem iguais sem o corpo: as três medidas de "rotação nas subidas" com o pé no fundo (Hilux 3042 → 4004 rpm, alvo 2700–3300; Scania 1547 → 2017, alvo 1350–1700; Volvo 1470 → 1922, alvo 1300–1600), o Volvo carregado de 0 a 85 km/h (83 → 57 s, alvo 60–90) e três bandas graves das classes de carga do real3, que agora tocam em giro alto (Scania na cabine, 30–60 Hz −21,4 → −27,0 e 60–150 Hz +7,4 → −3,3; ônibus, 30–60 Hz −9,1 → −37,5).
+
+Para separar o que é desta passada, os grupos de som (`bandas`, `real3`, `envoltoria`, `ar`, `jake`) foram rodados também sem o campo `corpo`, com o mesmo câmbio. Com o corpo: nenhuma falha a mais; o centroide da Ram em lenta fria volta para a faixa (221 → 279 Hz, alvo 270–450); o CV do knock do Scania em carga, que estava em cima do limite, passa a contar como desvio (0,39 → 0,39, alvo 0,17–0,39; em 22/11 era 0,45, desvio). Valores que mudaram (sem → com o corpo; estado entre parênteses):
+
+| Medida do `teste:diesel` | Alvo | Sem o corpo → com |
+|---|---|---|
+| Hilux no cofre, lenta: 1–2,5 kHz · 1–4 kHz · 2,5–6 kHz | +4 ± 6 · +5 ± 6 · −3 ± 3 dB | 2,9 → 4,8 · 3,6 → 5,3 · −3,5 → −3,0 (ok) |
+| Hilux no cofre, lenta: p90/p10 · curtose de 1–4 kHz | 15 ± 3 dB · 6–9 | 19,6 → 20,0 · 33,7 → 33,0 (desvios) |
+| Ram, lenta fria: 1–2,5 kHz · 1–4 kHz | −8 ± 4 dB | −3,3 → −1,0 · −2,9 → −0,7 (desvios; mais longe) |
+| Cat C15, lenta, junto ao escape: 1–2,5 kHz · centroide | ≤ −18 dB · 125–200 Hz | −14,4 → −12,7 · 278 → 304 Hz (desvios; mais longe) |
+| real3, picape lenta: 400–1000 Hz · 1–2,5 kHz · 2,5–6 kHz · centroide | −16,4 a 1,5 · −13,0 a 1,9 · −22,2 a 0,3 dB · 214–1114 Hz | −3,6 → −2,1 · −3,6 → −2,1 · −12,2 → −11,6 · 280 → 311 Hz (ok) |
+| real3, caminhão lenta: 30–60 · 60–150 · 400–1000 Hz · 1–2,5 kHz | −8,3 a 2,7 · 1,2 a 10,0 · −2,5 a 7,0 · −4,7 a 6,0 dB | 5,8 → 4,9 (desvio, mais perto) · 6,4 → 5,4 · −0,4 → 1,7 · −1,1 → 0,4 (ok) |
+| real3, caminhão lenta: 6–12 kHz · CV do knock | −24,4 a −11,0 dB · 0,13–0,25 | −28,9 → −29,3 · 0,38 → 0,41 (desvios) |
+| real3, caminhão em carga na cabine (Scania): 400–1000 Hz · 1–2,5 kHz · 2,5–6 kHz · centroide | −9,2 a −0,5 · −15,0 a −4,6 · −22,6 a −6,4 dB · 244–711 Hz | −15,9 → −13,2 · −21,4 → −18,2 · −40,8 → −39,8 · 222 → 235 Hz (desvios; mais perto) |
+| real3, ônibus em carga: 400–1000 Hz · 1–2,5 kHz · 2,5–6 kHz · CV do knock | −6,9 a 2,8 · −14,5 a 3,0 · −19,6 a −3,8 dB · 0,14–0,27 | −11,9 → −11,6 · −21,6 → −19,5 · −29,5 → −28,8 (desvios; mais perto) · 0,47 → 0,49 (desvio) |
+| envoltória em carga, p90/p10 de 2–6 kHz: Ram · Scania na cabine · ônibus | ≥ 10,6 · ≥ 9,1 · ≥ 7,1 dB | 16,0 → 16,5 · 16,4 → 16,8 · 15,1 → 15,2 (ok) |
+| envoltória na lenta, fundo liso no vão de 1–4 kHz: Hilux · Cat C15 | ≤ −3 dB | −16,9 → −18,6 · −10,9 → −12,3 (ok) |
+| Jake do Cat C15: 2,5–6 kHz e nível total contra a plena carga | +6 ± 3 · +2 ± 2 dB | 7,0 → 6,4 · 3,1 → 3,0 (ok) |
+
+O grupo `ar` não mudou. O câmbio, sozinho (22/11 → sem o corpo), é quem baixa os médios das classes de carga do real3 (Scania na cabine: 400–1000 Hz −12,2 → −15,9 e 1–2,5 kHz −17,4 → −21,4; ônibus: 1–2,5 kHz −14,9 → −21,6), leva o apito do caminhão na cabine de −49 dB em 19,5 kHz para −41 dB em 10,1 kHz (alvo ≤ −20) e tira 1,0 a 2,9 dB do p90/p10 de 2–6 kHz em carga (Ram 17,0 → 16,0; Scania 18,5 → 16,4; ônibus 18,0 → 15,1): no alto do giro as explosões ficam mais juntas.
 
 ## Radial e aviação a pistão
 

diff --git a/docs/REVISAO-DE-SOM.md b/docs/REVISAO-DE-SOM.md
@@ -592,7 +592,8 @@ o chocalho das engrenagens é de 1 a 10% do som ponderado A, e 0% em carga.
   falta é conteúdo tonal do escape e da carcaça dele nessa faixa, que é o mecanismo genérico do caminho compartilhado
   (ver "Caso: os médios"). A carcaça do escape do motor-base ficou ligada ao Diesel e desligada nos presets (controle
   "Carcaça do escape"): com o valor dos carros (−6 dB) nenhuma banda muda; com +18 a +24 dB sobem as linhas de 400–1000 Hz
-  em carga (2 a 7 dB), e nada de 1 a 2,5 kHz.
+  em carga (2 a 7 dB), e nada de 1 a 2,5 kHz. *(Retocado na quinta passada, abaixo: medida no microfone padrão, a
+  carcaça alisa o pulso e ficou desligada; os médios subiram pelo corpo da batida.)*
 - **A lenta continua mais seca que as gravações**: p90/p10 de 1–6 kHz de 14–21 dB contra 5–13, já com as engrenagens
   (sem elas, 19–27). O controle "Reflexos do cofre" enche mais o intervalo; o padrão ficou baixo para a carga não perder
   os pulsos.
@@ -610,9 +611,11 @@ o chocalho das engrenagens é de 1 a 10% do som ponderado A, e 0% em carga.
 "um pouco de falta nos médios", "tanto acelerando quanto na lenta", ouvindo "no padrão" da página, sem mexer em controle
 nenhum. O retoque foi um campo só, o corpo da batida (`corpo`: quanto as chapas presas ao bloco, cárter e tampas, somam à
 irradiação dos modos de 400 Hz a 2,5 kHz), com +3 ou +4 dB em sete presets: os médios sobem 2 a 3 dB na lenta e com
-meio pedal e, com o pé no fundo, 2 a 3 dB em 1–2,5 kHz e 0 a 1,7 dB em 400–1000 Hz; o grave do escape, o turbo e o
+meio pedal e, com o pé no fundo, 1 a 3 dB em 1–2,5 kHz e 0 a 1,7 dB em 400–1000 Hz; o grave do escape, o turbo e o
 instante de cada pancada ficam onde estavam (`TECNICO.md` → Diesel → Quinta passada, com a tabela antes × depois ×
-gravação e a de volta atrás). O que ela ensinou:
+gravação e a de volta atrás). No meio da passada o câmbio automático mudou (com o pé no fundo passou a levar o giro até
+perto da faixa vermelha) e a medida de aceleração foi refeita: vale a do gesto que o dono faz hoje, e a de troca cedo
+ficou para casar a rotação das gravações. O que ela ensinou:
 
 - **Meça onde o dono ouve, não onde há gravação.** As gravações de carga são de cabine, e a 4ª passada mediu a falta de
   médios no ouvinte `int`. No microfone padrão (`ext`) a conta é outra: a carcaça do escape, que na cabine parecia o
@@ -636,6 +639,10 @@ gravação e a de volta atrás). O que ela ensinou:
   Mais que isso pede mexer na proporção entre o escape e a estrutura só em carga.
 - **No giro livre, só se isola fonte somada na saída.** Desligar a banda larga da turbina (que entra na rede de tubos)
   muda a contrapressão, a trajetória do motor se afasta e a "contribuição" sai com 120 a 200% do nível ponderado A.
+- **O "padrão" inclui o câmbio.** O mesmo pé no fundo, com outro ponto de troca, é outra condição acústica: de
+  1230–1680 para 1560–2130 rpm o escape de 150–400 Hz dos caminhões cresce 3 a 9 dB, o pico da saída vai de 0,32–0,37
+  para 0,51–0,61 e os médios caem 2 a 8 dB em relação a ele. Anote a marcha e a faixa de rotação de cada medida de
+  aceleração, e refaça-a quando o câmbio mudar.
 
 ## Caso: Vapor: o chuff, não o sopro
 
